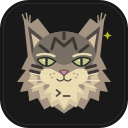
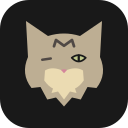
fix: simplify Astro branding and match the single-eye reference

diff --git a/tests/test_brand.py b/tests/test_brand.py
@@ -1,0 +1,36 @@
+# SPDX-License-Identifier: GPL-3.0-or-later
+import importlib.util
+from pathlib import Path
+import unittest
+import xml.etree.ElementTree as ET
+
+ROOT = Path(__file__).resolve().parents[1]
+
+
+class BrandTests(unittest.TestCase):
+    def test_minimal_icon_has_one_explicit_eye_on_reference_side(self):
+        svg = ET.parse(ROOT/'assets/astro.svg').getroot()
+        shapes = [node for node in svg.iter() if node.tag.rsplit('}', 1)[-1] in {'path','rect','circle','ellipse','polygon'}]
+        self.assertLessEqual(len(shapes), 10, 'icon is still too detailed')
+        opened = svg.find(".//*[@id='eye-open-viewer-right']")
+        closed = svg.find(".//*[@id='eye-closed-viewer-left']")
+        self.assertIsNotNone(opened, 'open eye must be on the reference image-right')
+        self.assertIsNotNone(closed, 'closed eye must be on the reference image-left')
+        self.assertFalse(any('-1' in node.get('transform','') for node in svg.iter()), 'do not mirror the reference')
+
+    def test_ascii_portrait_and_runner_each_have_one_visible_eye(self):
+        spec = importlib.util.spec_from_file_location('astro_intro',ROOT/'config/astro_intro.py')
+        assert spec is not None and spec.loader is not None
+        intro = importlib.util.module_from_spec(spec)
+        spec.loader.exec_module(intro)
+        for art in (intro.CAT,intro.RUNNER):
+            eyes = [(x,y) for y,row in enumerate(art) for x,char in enumerate(row) if char=='@']
+            self.assertEqual(len(eyes),1)
+            x,y=eyes[0]
+            row = art[y]
+            center = (row.index('(')+row.index(')'))/2 if '(' in row else len(row.rstrip())/2
+            self.assertGreater(x,center, 'visible eye must be on image-right')
+
+
+if __name__ == '__main__':
+    unittest.main()

diff --git a/config/astro_intro.py b/config/astro_intro.py
@@ -22,7 +22,7 @@ CAT = (
     r'     /^^\__..M..__/^^\     ',
     r'    / .  / /|\ \  . \    ',
     r'   /_/__/   |   \__\_\   ',
-    r'   |   \_@_     _@_/   |   ',
+    r'   |   ----     _@_/   |   ',
     r'  /    .     v     .    \  ',
     r' /  ===\  ._ Y _.  /===  \ ',
     r'<  -----\__ \|/ __/-----  >',
@@ -32,7 +32,7 @@ CAT = (
     r'       \__/ ||| \__/      ',
     r'          \_|||_/         ',
 )
-RUNNER = (r'    /\_/\                 ', r'   ( @.@ )___             ',
+RUNNER = (r'    /\_/\                 ', r'   ( -.@ )___             ',
           r'   / >v<     `-.          ', r'  /     ___     \____     ',
           r' (_____/   \_____)   `~~   ')
 

diff --git a/README.md b/README.md
@@ -11,8 +11,12 @@ an unmodified kitty.
 
 **Meet Astro**
 
-The mascot is based on Astro, a real long-haired brown/grey tabby: tufted ears,
-a dark forehead M, pale green eyes, a pink nose and a cream muzzle and bib.
+The mascot is based on Astro, a real long-haired brown/grey tabby: tall ears,
+a dark forehead M, a pink nose and a cream ruff. In the owner's front-facing
+reference, the missing/closed eye is on the viewer's left and the single open
+pale green eye is on the viewer's right. The icon and both ASCII cat poses keep
+that exact orientation; do not mirror them. The simplified icon uses eight bold
+shapes rather than detailed whiskers, cheek stripes or decorative marks.
 The app icon and outlined wordmark share the terminal's existing Gruvbox palette.
 Reference photographs are personal and are not distributed in this repository.
 
